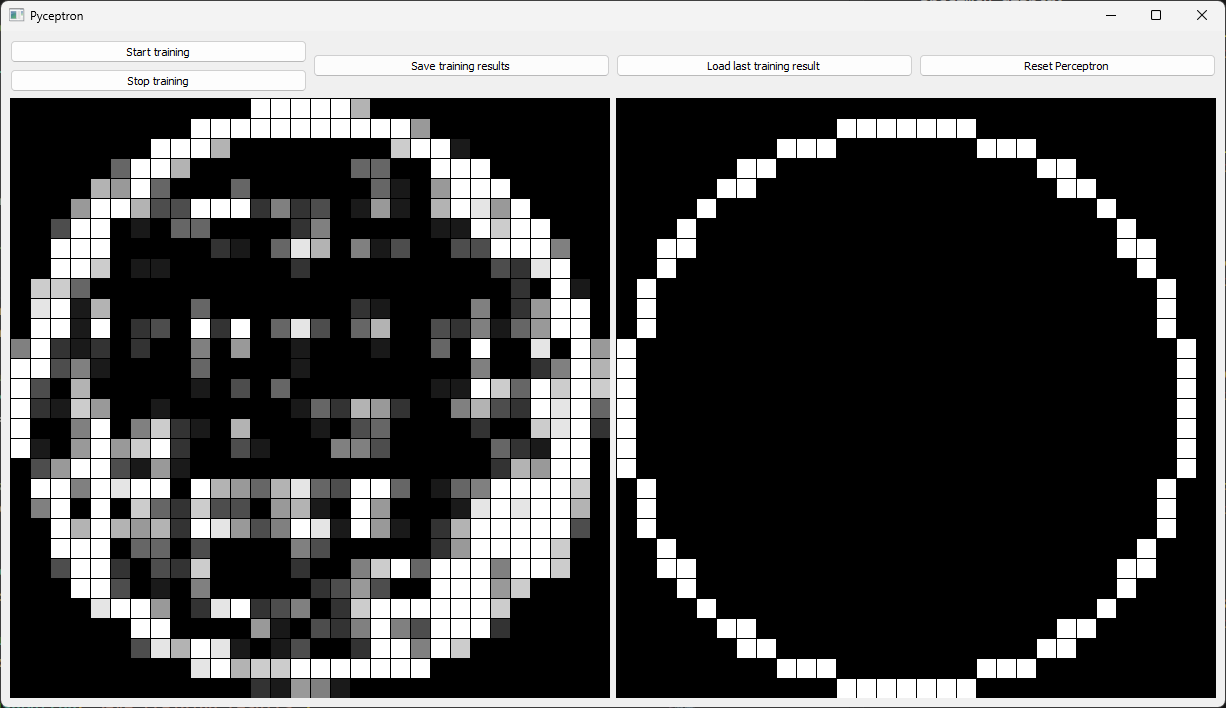
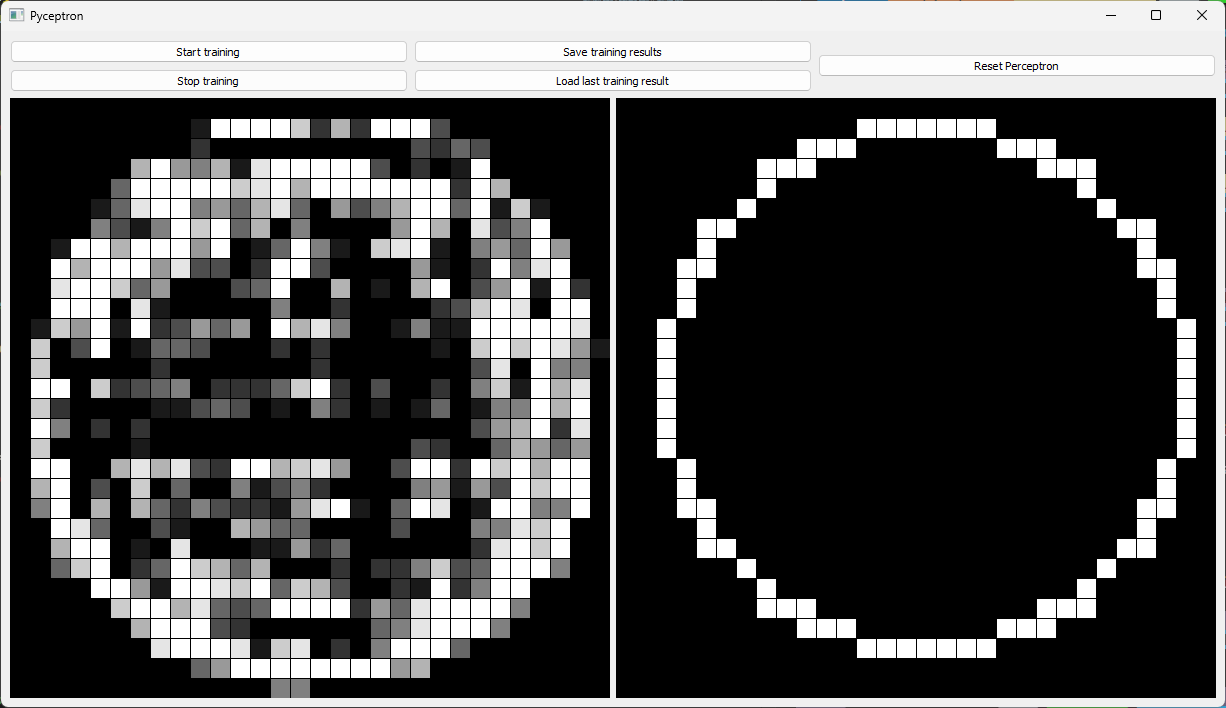
updated button layout

diff --git a/gui.py b/gui.py
@@ -85,7 +85,7 @@ class PerceptronVisualizer(Visualizer):
 
         # Generate the training set
         trainingSet = []
-        for _ in range(500):
+        for _ in range(1000):
             trainingSet.append((gen.generate_rect(), 0))
             trainingSet.append((gen.generate_circle(), 1))
 
@@ -119,11 +119,15 @@ class PerceptronVisualizer(Visualizer):
         controlLayout.addWidget(self.startButton, alignment=Qt.AlignTop)
         controlLayout.addWidget(self.stopButton)
 
+        # Layout for saving/loading buttons
+        saveloadLayout = QVBoxLayout()
+        saveloadLayout.addWidget(self.saveButton, alignment=Qt.AlignTop)
+        saveloadLayout.addWidget(self.loadButton)
+
         # Button layout
         buttonLayout = QHBoxLayout()
         buttonLayout.addLayout(controlLayout)
-        buttonLayout.addWidget(self.saveButton)
-        buttonLayout.addWidget(self.loadButton)
+        buttonLayout.addLayout(saveloadLayout)
         buttonLayout.addWidget(self.resetButton)
 
         # Display layout
